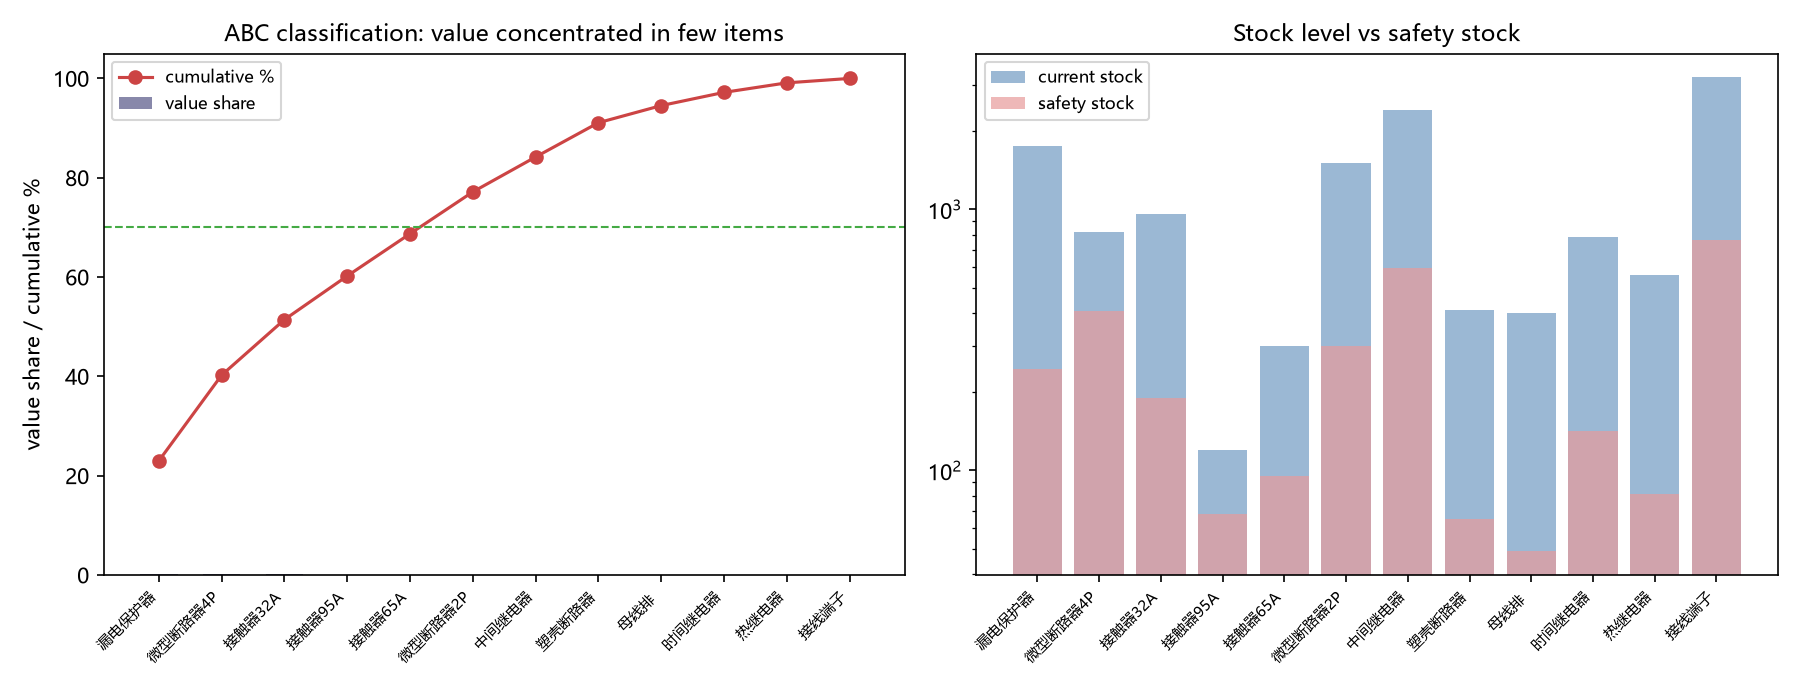
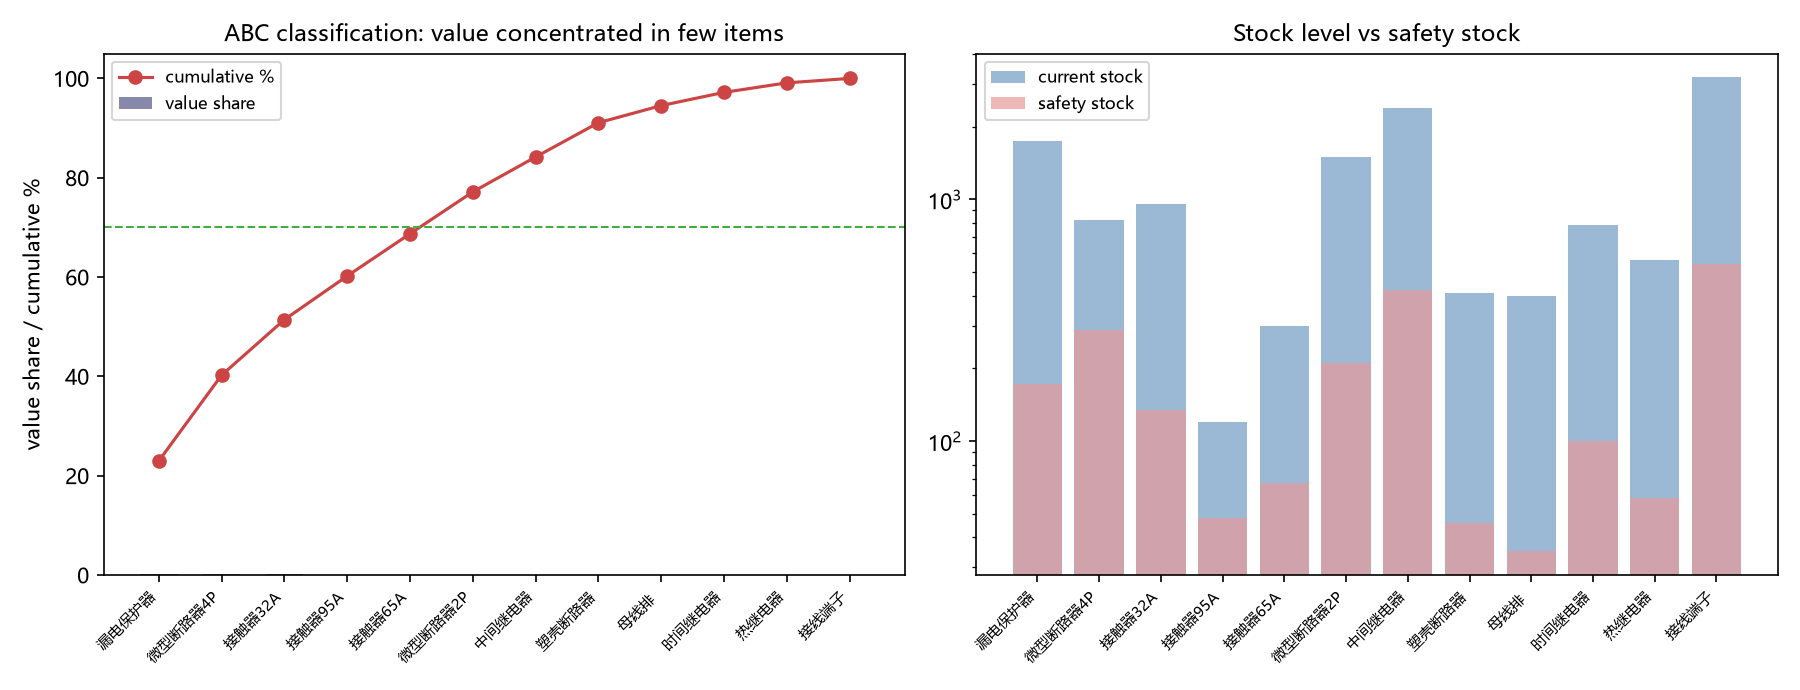
Fix safety stock formula & clarify stock coverage term
- Safety stock now uses the transparent model SS = Z * lead-time demand * variability
  (1.28 * 0.5 * 0.3 * monthly demand), readable and interview-friendly.
- Rename 'stock_turn' -> 'stock_coverage' to avoid confusion with the annual
  inventory-turnover ratio; it means months of demand covered.
- Regenerate output tables and figure.

diff --git a/src/inventory_optimization.py b/src/inventory_optimization.py
@@ -61,10 +61,15 @@ def main():
                "annual_value", "cum_pct", "ABC_class"]].to_string(), "\n")
 
     # ---- 2) Safety stock ------------------------------------------------
-    # Simplified lead-time demand model:
-    #   SS = Z * (demand std per period) * sqrt(lead time)
-    # Teaching approximation: treat monthly demand std as 30% of demand.
-    dfc["safety_stock"] = (Z * dfc["月销量"] * 0.3 * (LEAD_TIME ** 0.5)).round(0)
+    # Transparent teaching model (Option A):
+    #   SS = Z * monthly demand * lead time (months) * demand variability
+    #   = 1.28 * demand * 0.5 * 0.3  ->  buffer covering demand fluctuation
+    #     within one lead time at a 90% service level.
+    # This strips the sqrt back out of the formula so the units read clearly:
+    #   demand that actually occurs *during* the lead time, scaled by the
+    #   service-level factor (Z) and a variability allowance (0.3 / 30%).
+    VARIABILITY = 0.3  # allowance for demand fluctuation within the lead time
+    dfc["safety_stock"] = (Z * LEAD_TIME * VARIABILITY * dfc["月销量"]).round(0)
 
     print("=" * 68)
     print("2) SAFETY STOCK (90% service level)")
@@ -83,12 +88,14 @@ def main():
     print(dfc[["物料号", "物料名", "月销量", "采购成本", "EOQ"]].to_string(), "\n")
 
     # ---- 4) Replenishment kanban ----------------------------------------
-    dfc["stock_turn"] = (dfc["库存量"] / dfc["月销量"]).round(2)
+    # stock coverage = months of demand covered by current stock (a days-of-inventory
+    # style gauge, NOT the annual inventory-turnover ratio).
+    dfc["stock_coverage"] = (dfc["库存量"] / dfc["月销量"]).round(2)
 
     def status(row):
         if row["库存量"] < row["safety_stock"]:
             return "URGENT restock"
-        if row["stock_turn"] >= 2:
+        if row["stock_coverage"] >= 2:
             return "OVERSTOCK risk"
         return "OK"
     dfc["status"] = dfc.apply(status, axis=1)
@@ -97,7 +104,7 @@ def main():
     print("4) REPLENISHMENT KANBAN (final result)")
     print("=" * 68)
     out = dfc[["物料号", "物料名", "ABC_class", "库存量",
-               "safety_stock", "stock_turn", "EOQ", "status"]]
+               "safety_stock", "stock_coverage", "EOQ", "status"]]
     print(out.to_string(), "\n")
 
     # ---- Export results -------------------------------------------------
